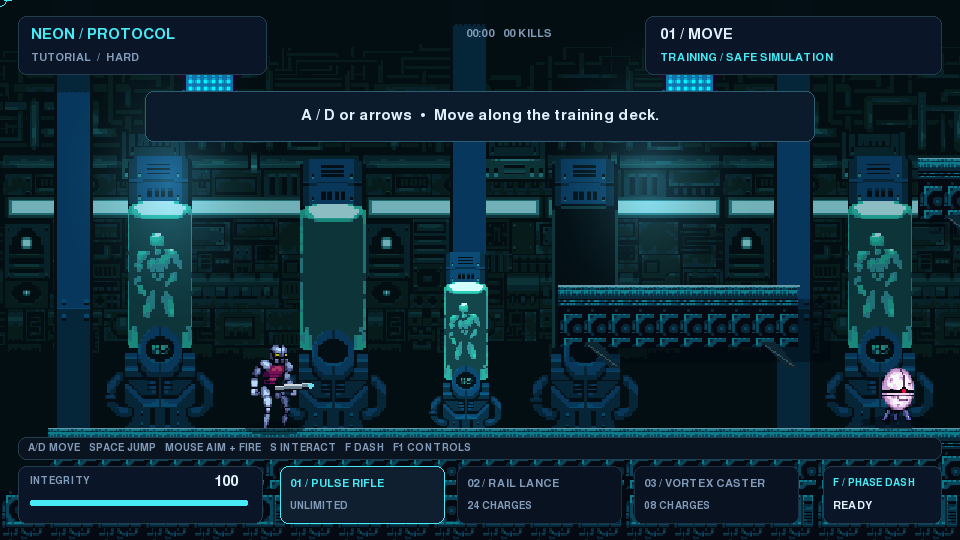
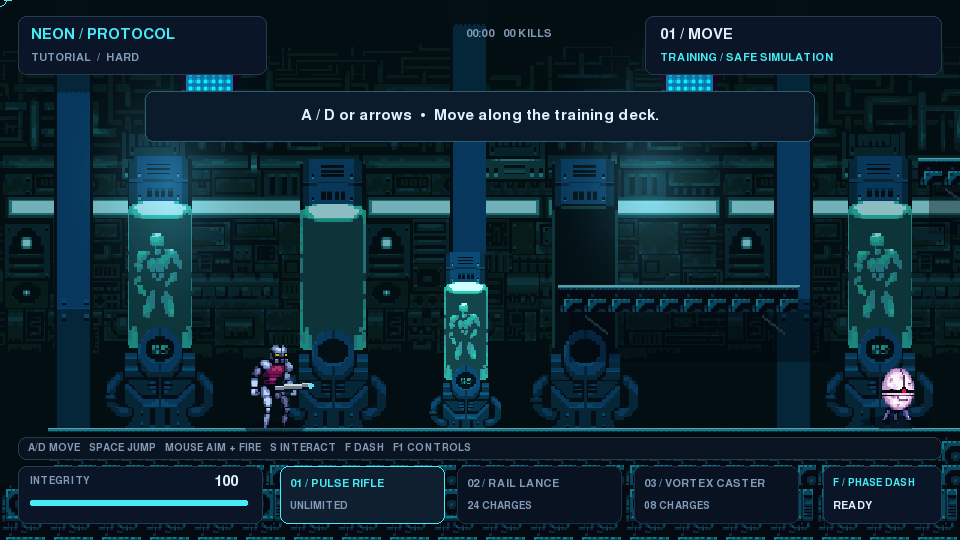
Align rendered platforms and shields, preserve licensed asset bytes, finalize checks

Changed region(s): [[0.0, 0.8, 1.0, 1.0], [0.5625, 0.5333, 0.8438, 0.6815], [0.9375, 0.2963, 1.0, 0.4148]]

diff --git a/src/abuse_remake/game/neon_art.py b/src/abuse_remake/game/neon_art.py
@@ -98,7 +98,7 @@ class RasterArt:
         key = (group, index, facing < 0, scale)
         if key not in self.frame_cache:
             image = frames[index]
-            native_left = group.startswith(("courier", "stalker"))
+            native_left = group.startswith(("courier", "stalker")) or group == "sentry"
             if group.startswith("courier"):
                 image = image.copy()
                 # Free mouse aim replaces the run frame's horizontal gun. Feet/body shading stay intact.
@@ -161,7 +161,7 @@ class RasterArt:
     def environment(self, game, camera):
         cx, cy = camera
         top_tile, face_tile = self.tech_top, self.tech_face
-        for index, (x, y, w, _h) in enumerate(game.platforms):
+        for index, (x, y, w, height) in enumerate(game.platforms):
             sx, sy = round(x - cx), round(y - cy)
             if sx > WORLD_W or sx + w < 0:
                 continue
@@ -170,17 +170,17 @@ class RasterArt:
             shadow.fill((2, 6, 15, 100))
             self.scene.blit(shadow, (max(-15, sx) + 7, sy + 9))
             left, right = max(-16, sx), min(WORLD_W + 16, sx + w)
-            self._tile_rect(top_tile, pg.Rect(left, sy, right - left, 16))
-            self._tile_rect(face_tile, pg.Rect(left, sy + 16, right - left, 16))
-            self._tile_rect(face_tile, pg.Rect(left, sy + 32, right - left, 9))
+            top = pg.transform.scale(top_tile, (16, 6))
+            self._tile_rect(top, pg.Rect(left, sy, right - left, 6))
+            self._tile_rect(face_tile, pg.Rect(left, sy + 6, right - left, min(32, height - 6)))
             pg.draw.line(self.scene, (104, 151, 165), (sx, sy), (sx + w, sy))
             if index == 0:
-                self._tile_rect(self.vent_tile, pg.Rect(0, sy + 42, WORLD_W, WORLD_H - sy - 42))
+                self._tile_rect(self.vent_tile, pg.Rect(0, sy + 38, WORLD_W, max(0, WORLD_H - sy - 38)))
             else:
                 for support_x in (sx + 18, sx + w - 24):
-                    pg.draw.polygon(self.scene, (14, 38, 50), [(support_x, sy + 38), (support_x + 8, sy + 38),
-                                                             (support_x + 22, sy + 54), (support_x + 16, sy + 54)])
-                    pg.draw.line(self.scene, (49, 83, 96), (support_x + 2, sy + 40), (support_x + 20, sy + 53))
+                    # Dark rear braces are decoration, visibly separate from the solid deck.
+                    pg.draw.line(self.scene, (26, 49, 60), (support_x, sy + height + 2),
+                                 (support_x + 14, sy + height + 13), 2)
         for i, (x, _y, w, _h) in enumerate(game.doors):
             sx, bottom = int(x - cx), int(FLOOR - cy)
             if not -60 < sx < WORLD_W + 60:

diff --git a/tests/test_neon_app.py b/tests/test_neon_app.py
@@ -214,3 +214,29 @@ def test_neon_uses_shaded_animated_assets_with_transparent_silhouettes():
         assert np.any(alpha == 0) and np.any(alpha == 255)
         assert len(np.unique(colors, axis=0)) >= 5  # five-color palettes include dark/midtone/highlight clusters
     pygame.quit()
+
+
+def test_sentry_muzzle_faces_the_same_direction_as_its_shield():
+    import numpy as np
+
+    app = make_app()
+    art = app.renderer.art
+    source = art.animations["sentry"][0]
+    assert np.array_equal(pygame.surfarray.array3d(art.frame("sentry", 0, -1)),
+                          pygame.surfarray.array3d(source))
+    assert np.array_equal(pygame.surfarray.array_alpha(art.frame("sentry", 0, 1)),
+                          pygame.surfarray.array_alpha(pygame.transform.flip(source, True, False)))
+    pygame.quit()
+
+
+def test_floating_platform_material_matches_authoritative_collision_height(monkeypatch):
+    app = make_app()
+    game, art = app.game, app.renderer.art
+    painted = []
+    monkeypatch.setattr(art, "_tile_rect", lambda image, rect: painted.append(rect.copy()))
+    art.environment(game, (0, 235))
+    x, y, width, height = game.platforms[1]
+    rects = [r for r in painted if r.x == x and r.width == width]
+    assert rects and min(r.y for r in rects) == y - 235
+    assert max(r.bottom for r in rects) == y - 235 + height
+    pygame.quit()

diff --git a/docs/reviews/PR-11.md b/docs/reviews/PR-11.md
@@ -1,0 +1,44 @@
+# Review record: PR #11 (shaded art revision and final validation)
+
+Student owns acceptance/merge. These are independent findings and implementer fixes, not
+self-approval. No reviewer edited files, accessed the network or made paid playing-model calls.
+
+## Validation review before the art revision
+
+Fresh read-only Codex agent `neon_validation_review`, briefed with
+`.claude/agents/rules-reviewer.md`, reviewed the final validation changes before the student
+rejected the wireframe prototype. It independently replayed the evidence: four checks,
+zero mismatches, 533 campaign ticks, 11 kills, three relay saves.
+
+| Severity | Finding | Resolution |
+|---|---|---|
+| should fix | Permanent tutorial-pickup test omitted adjacent finite lifetime boundary | Added combat pickup at life 2 → 1 → removal at zero and permanent pickup collection regression |
+| should fix | Developer controller trace header claimed human player | Trace generation now explicitly writes `development-smoke-controller`; regenerated evidence retains that metadata |
+
+## Fresh shaded-art review
+
+After the student selected gritty armored industrial artwork, fresh read-only Codex agent
+`neon_art_review` reviewed the revised stage at 416e8dd: art loader, sprites/backgrounds,
+camera/aim, rendering/collision, source licences/manifest, release workflow, tests and evidence,
+plus Classic engine/readers and playing-agent isolation.
+
+| Severity | Finding | Resolution |
+|---|---|---|
+| should fix | Sentry sprites faced opposite simulation/shield direction | Failed-before-fix muzzle-direction test; native-left sentry art now flips to the simulation facing |
+| should fix | Painted floating decks looked 41 px solid while collision height is 18 | Failed-before-fix material-height test; top/front material now occupies exactly the authoritative height; dark rear braces/shadows remain separate decoration |
+
+Implementer found Git's text normalization changed vendored licence bytes on commit despite
+the original-byte SHA manifest. Added an asset-specific `-text` attribute while retaining
+existing SPEC/Lisp attributes, then re-added the original licence bytes. Verification checks
+Git blob bytes against the manifest as well as the working files, so a fresh checkout matches.
+
+Final executable and full checks are recorded in `docs/PROGRESS.md`; follow-up independent
+review is requested after these fixes. Asset source pages/licences are in
+`assets/neon/PROVENANCE.md`. No original-game fidelity claim is made for Neon design.
+
+Independent follow-up: "No findings." Both raster issues rechecked; 15 app/asset tests and
+the two focused pickup tests passed. Reviewer independently verified all 101 manifest entries
+against working files and staged Git blobs. Full final checks: 244 tests, Ruff and original
+data checksums pass. Updated screenshots and the development smoke trace were regenerated.
+The standalone macOS executable also passed headless Classic, Neon campaign, Horde and
+training smoke runs from outside the repository; the new assets were loaded from the bundle.

diff --git a/docs/PROGRESS.md b/docs/PROGRESS.md
@@ -14,7 +14,7 @@ are now merged (confirmed against GitHub); the historical table below records th
 |---|---|---|---|
 | Simulation | `feat/neon-engine` (#9) | `main` | Pushed; independent review found five issues, all fixed with failing regression tests |
 | Playable presentation/tutorial | `feat/neon-playable` (#10) | `feat/neon-engine` | Pushed; independent review found two trace lifecycle issues, fixed with failed-before-fix regressions |
-| Art revision/validation/release | `feat/neon-validation` | `feat/neon-playable` | Shaded industrial revision tested: 242 tests, lint and checksums pass; fresh review and packaged-build checks underway |
+| Art revision/validation/release | `feat/neon-validation` (#11) | `feat/neon-playable` | Pushed; both final reviews resolved; 244 local tests pass; standalone Classic/Neon campaign/Horde/training smoke checks pass |
 
 Merge ownership remains with the student. These branches will be pushed as milestones finish;
 no live model calls are needed. Development uses `.claude/skills/port-classic-rule/SKILL.md`,
@@ -29,6 +29,22 @@ The new renderer reads assets through `paths.assets_root`; release bundles must 
 `assets/neon` as well as original data. World view is 640×360 with a 960×540 HUD; mouse
 mapping uses world size. The first two PRs describe the earlier milestone snapshots; the
 third PR replaces prototype wireframes with artist sprites and textured industrial scenery.
+
+Final validation: required-C suite 244 passed; Ruff src/tests/scripts passes; original-data
+checksums and all 101 artist-asset hashes match. `scripts/neon_evidence.py` generates actual
+screenshots and a developer-controller trace: Hard campaign seed 7 wins at 533 ticks, all
+three relays/11 enemies, four replay hash checks with zero mismatches. Five Hard seeds
+complete using normal controls in the tests. These are development checks, not human results.
+
+A macOS PyInstaller standalone executable was built under `/private/tmp/neon-bundle/dist/`
+with original data and Neon assets included. It was run from `/private/tmp` in Classic and
+all three Neon variants, writing screenshots successfully. Executable tests needed sandbox
+escalation because PyInstaller's process semaphore is denied inside the sandbox. No tag or
+release was pushed; the release workflow will exercise these modes on each supported OS.
+
+Independent reviews: `docs/reviews/PR-9.md`, `PR-10.md`, `PR-11.md`. Final review follow-ups
+report no unresolved findings. CI originally caught licence CRLF normalization against the
+manifest; `.gitattributes` now preserves those upstream bytes. Final CI rerun is pending push.
 
 ## Branches and PRs (stacked; the student merges in order, agents never merge)
 
